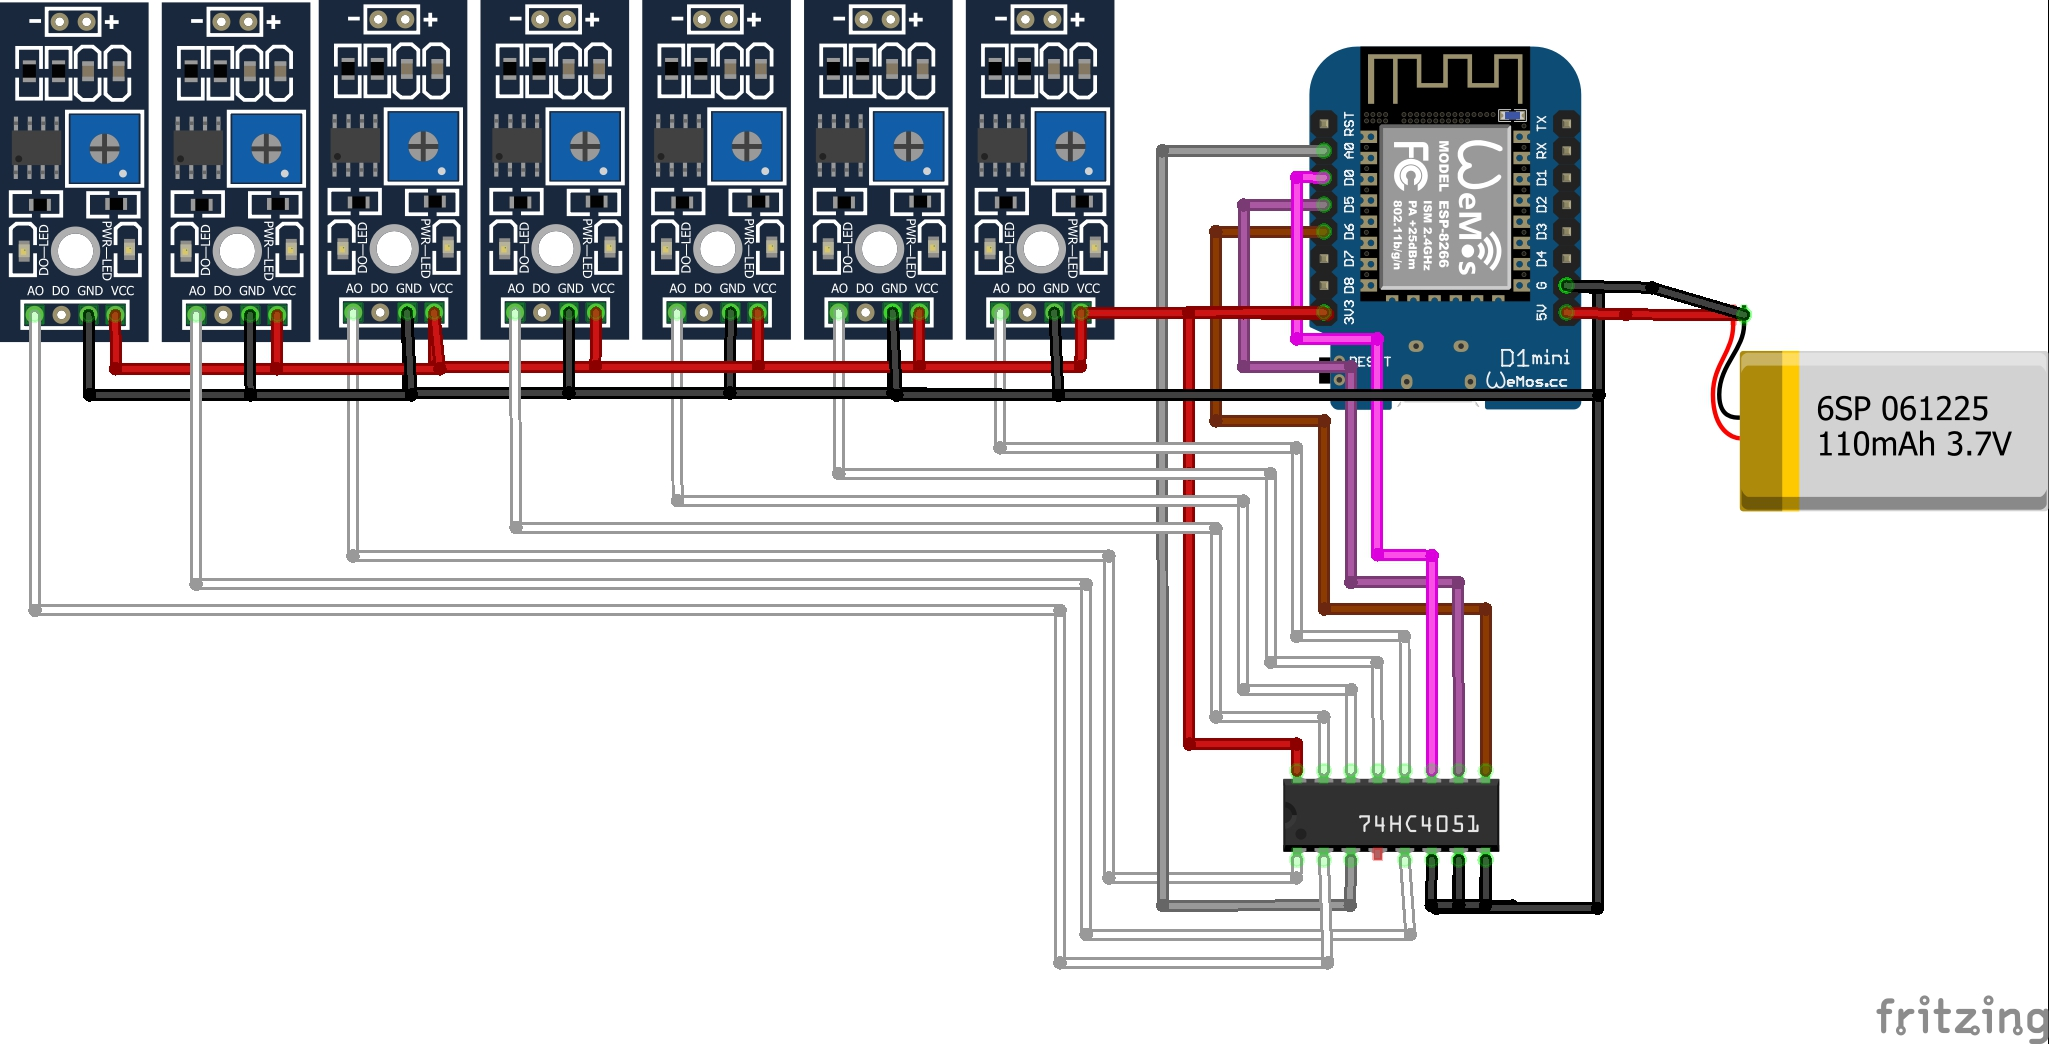
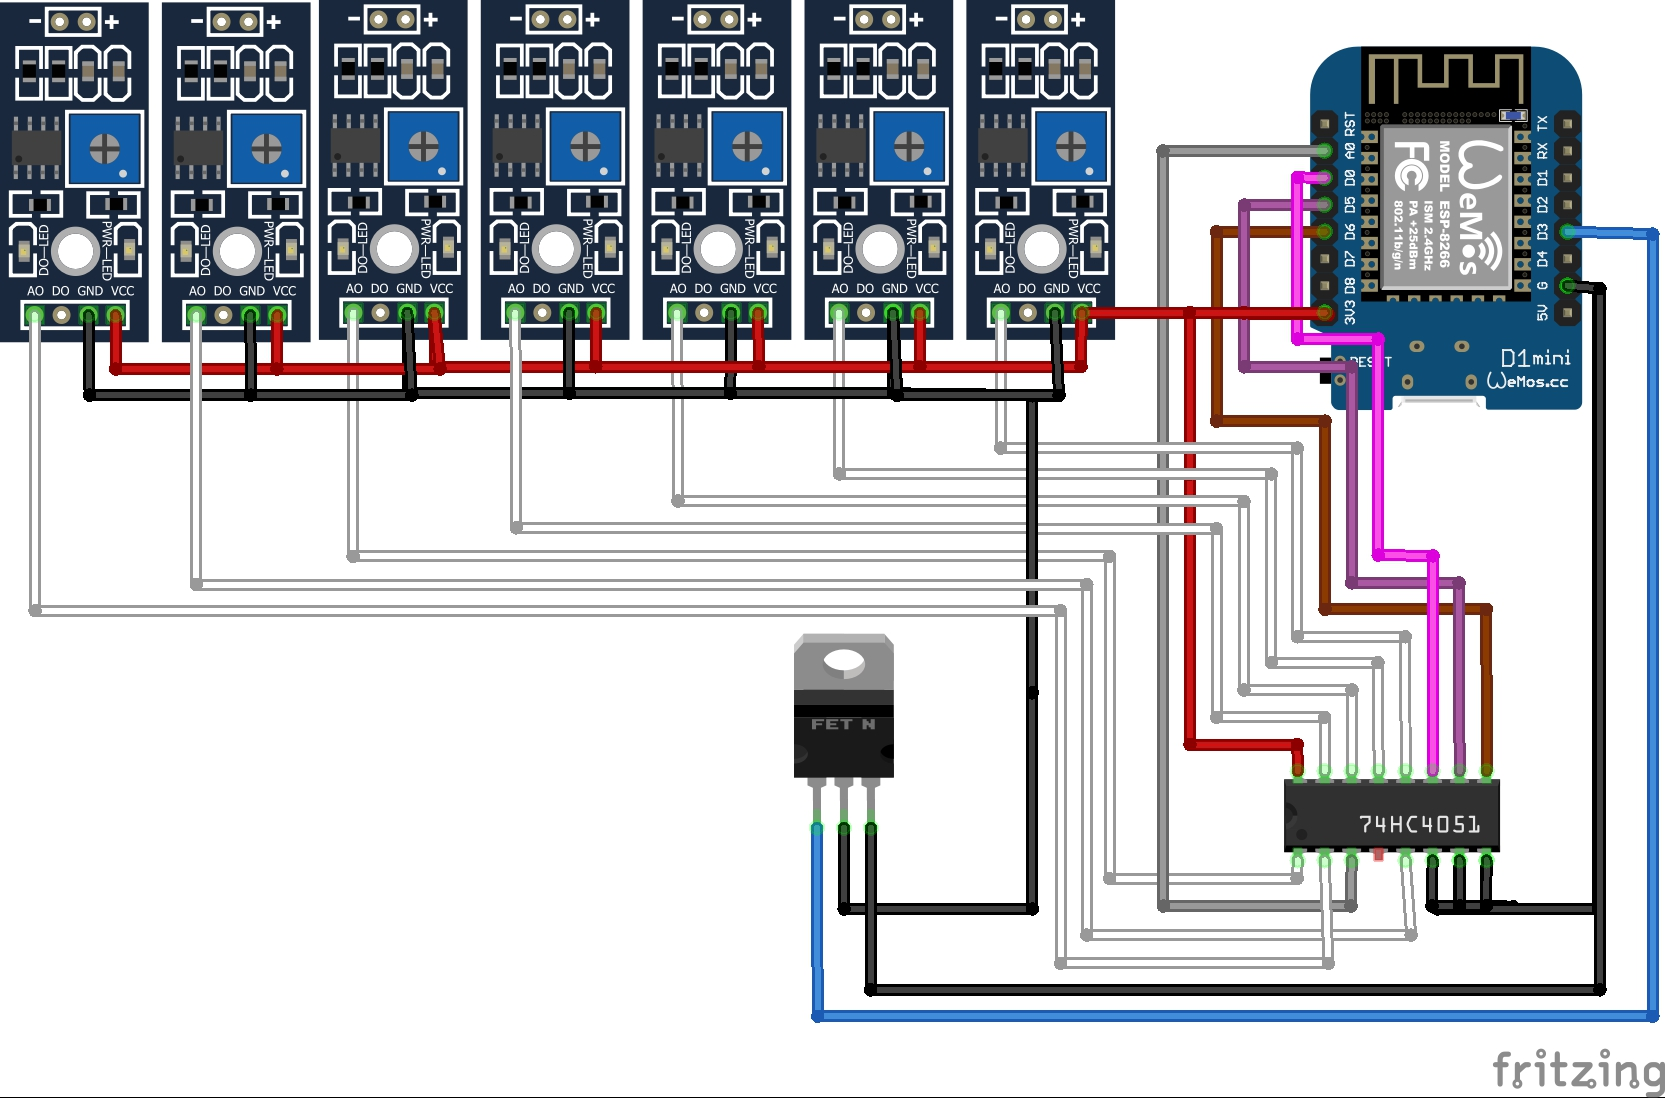
Mosfet + schema

diff --git a/lib/SoilMoisture/SoilMoisture.cpp b/lib/SoilMoisture/SoilMoisture.cpp
@@ -4,6 +4,7 @@
 #define MUX_A D6
 #define MUX_B D7
 #define MUX_C D8
+#define MOSFET D3
 #define ANALOG_INPUT A0
 
 void SoilMoisture::initialize()
@@ -12,6 +13,7 @@ void SoilMoisture::initialize()
     pinMode(MUX_A, OUTPUT);
     pinMode(MUX_B, OUTPUT);
     pinMode(MUX_C, OUTPUT);
+    pinMode(MOSFET, OUTPUT);
 }
 
 void SoilMoisture::changeMux(int c, int b, int a)
@@ -33,7 +35,11 @@ int SoilMoisture::getMoistureValueFromAnalogValue(float value)
 SoilMoistureStatus SoilMoisture::getSoilMoistureStatus()
 {
     SoilMoistureStatus status = {0, 0, 0, 0, 0, 0, 0};
-    
+
+    digitalWrite(MOSFET, HIGH);
+    Serial.println("Soil moisture sensors ON");
+    delay(2000);
+
     changeMux(LOW, LOW, LOW);
     int value = analogRead(ANALOG_INPUT); //Value of the sensor connected Option 0 pin of Mux
     Serial.print(" Analog value X0/A: ");
@@ -79,8 +85,8 @@ SoilMoistureStatus SoilMoisture::getSoilMoistureStatus()
     // changeMux(HIGH, HIGH, HIGH);
     // value = analogRead(ANALOG_INPUT); //Value of the sensor connected Option 7 pin of Mux
 
+    digitalWrite(MOSFET, LOW);
+    Serial.println("Soil moisture sensors OFF");
+
     return status;
 }
-
-
-
